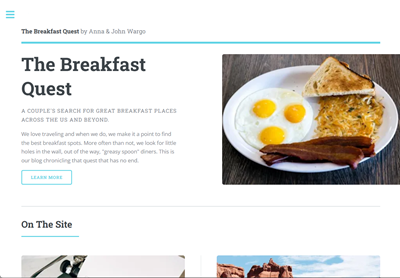
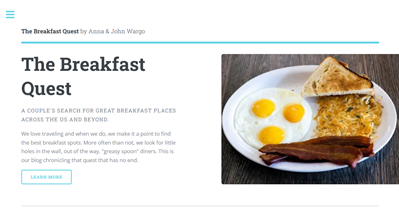
added breakfast quest post

diff --git a/src/posts/2026/the-breakfast-quest.md b/src/posts/2026/the-breakfast-quest.md
@@ -1,0 +1,19 @@
+---
+title: The Breakfast Quest
+description: 
+date: 2026-08-01
+showCoffee: true
+headerImage: 
+headerImageAltText: 
+headerImageAttribution: 
+categories: 
+timestamp: 2026-08-01T22:24:03.472Z
+---
+
+I launched a new site recently and added a reference to it on the [sites](/about/sites) page. Its called [The Breakfast Quest](https://thebreakfastquest.com/){target="_blank"} and my wife and I started it to write about the diners and greasy spoon restaurants we visit when we're traveling. 
+
+![The Breakfast Quest home page](/images/sites/breakfastquest-800.png)
+
+We basically write reviews of restaurants we visit and include some pictures and background on the restaurant. There's a [Locations](https://thebreakfastquest.com/locations/){target="_blank"} page that maps out all the locations we've visited. I generated a JSON data file automatically from posts and use it to generate the map, I'll write about that here soon.
+
+![The Breakfast Quest Locations page](/images/2026/breakfast-quest-locations.png)
